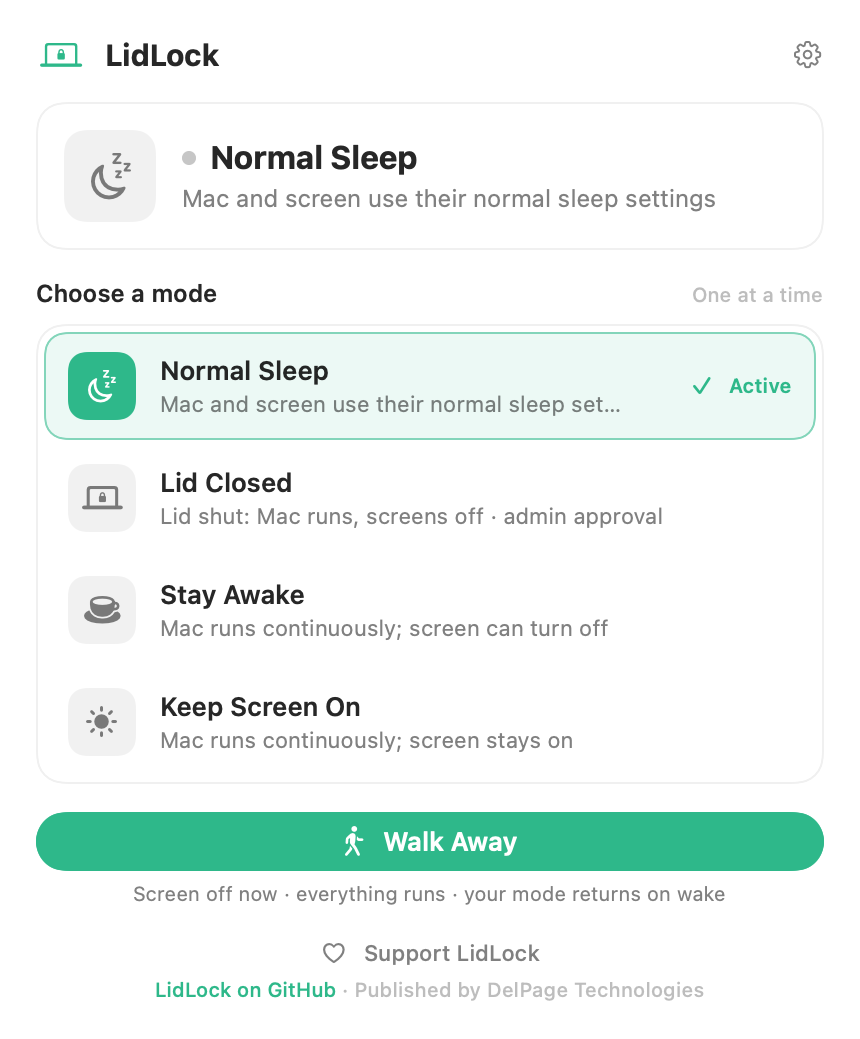
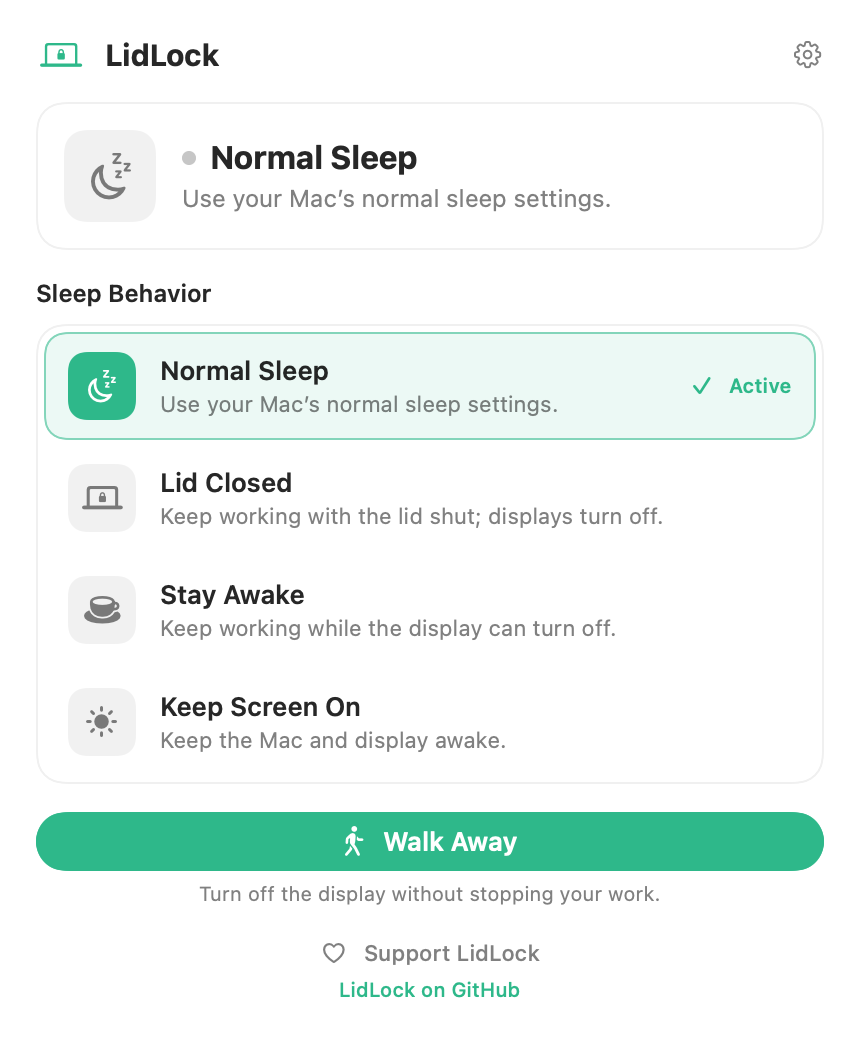
Rewrite customer-facing copy

diff --git a/GETTING_STARTED.md b/GETTING_STARTED.md
@@ -1,8 +1,8 @@
 # Getting Started With LidLock
 
-LidLock is a macOS menu bar utility that gives you clear control over when your
-Mac and its display sleep. It is free to use, requires no account, and does not
-collect personal information.
+LidLock is a macOS menu bar utility for controlling when your Mac and display
+sleep. It is free to use, requires no account, and does not collect personal
+information.
 
 The current public download is version 1.1.3. The guided setup and four mode
 interface described below are being tested for the next signed update.
@@ -14,35 +14,28 @@ interface described below are being tested for the next signed update.
 3. Open LidLock from Applications.
 4. macOS verifies that the app is signed and notarized by DelPage Technologies.
 
-Moving LidLock to Applications is required only for the optional password free
+Moving LidLock to Applications is required only for the optional password-free
 helper. The rest of the app can run without that helper.
 
 ## First Launch
 
-The next LidLock update opens with a three step guide:
-
-1. **Choose a mode.** Learn what happens to the Mac and display in each mode.
-2. **Walk Away and menu bar.** Learn how to hide the screen immediately and how
-   LidLock stays available after its window closes.
-3. **Permissions.** See which features need no special access, why Lid Closed
-   needs administrator approval, and which options are completely optional.
+On first launch, LidLock shows what each sleep option does, how Walk Away works,
+where to find LidLock after closing its window, and why Lid Closed needs an
+administrator password.
 
 You can reopen this guide anytime from **Settings**, then **Getting Started**.
 
-## The Four Modes
-
-Only one mode can be active at a time.
+## Sleep Options
 
 | Mode | What happens |
 |---|---|
-| **Normal Sleep** | The Mac and display use their usual sleep settings. |
-| **Lid Closed** | The Mac keeps running with the lid shut, and screens turn off. |
-| **Stay Awake** | Work keeps running, but the display may turn off. |
-| **Keep Screen On** | Both the Mac and display remain awake. |
+| **Normal Sleep** | Uses your Mac's normal sleep settings. |
+| **Lid Closed** | Keeps your Mac working with the lid shut while displays turn off. |
+| **Stay Awake** | Keeps your work running while the display can turn off. |
+| **Keep Screen On** | Keeps the Mac and display awake. |
 
-**Walk Away** is a separate privacy action. It turns the screen off immediately
-without stopping your work. When the display wakes, LidLock restores the mode
-that was active before Walk Away.
+**Walk Away** turns the display off immediately without stopping your work. Your
+previous sleep setting remains selected when the display wakes.
 
 Closing the LidLock window does not quit the app. LidLock stays available in the
 macOS menu bar until you choose **Quit LidLock**.
@@ -51,37 +44,36 @@ macOS menu bar until you choose **Quit LidLock**.
 
 | Feature | What macOS may request | Why |
 |---|---|---|
-| Normal Sleep, Stay Awake, Keep Screen On, and Walk Away | Nothing | These use standard local power controls that do not require special access. |
-| Lid Closed | Administrator approval | This mode changes a system wide lid sleep setting so the Mac can continue running with the lid shut. macOS protects that setting. |
-| Password Free Lid Control | Optional helper approval | The signed helper avoids repeated password prompts. It can change only the lid sleep setting and accepts requests only from the signed LidLock app. |
-| Launch at Login | Optional approval under Login Items | macOS lets you decide which apps may open when you sign in. |
+| Normal Sleep, Stay Awake, Keep Screen On, and Walk Away | Nothing | They work as soon as LidLock opens. |
+| Lid Closed | Administrator password | macOS protects changes to how the Mac sleeps with its lid shut. |
+| Password-free lid control | Optional helper approval | The signed helper can change only the lid sleep setting. |
+| Open at login | Optional approval under Login Items | macOS lets you decide which apps open when you sign in. |
 
 LidLock does not request access to your files, screen contents, camera,
 microphone, location, contacts, or Accessibility controls.
 
 ### Why Lid Closed Needs Administrator Approval
 
-Lid Closed changes a setting that applies to the entire Mac, not only to the
-LidLock window. macOS therefore requires administrator approval when that
-setting is turned on or returned to normal.
+Lid Closed changes how the entire Mac sleeps when its lid is shut. macOS asks
+for an administrator password when that setting changes.
 
-Before the macOS approval prompt appears, LidLock explains what will change and
-reminds you that the Mac may continue using power while the lid is shut. This
-approval does not give LidLock access to personal information or other apps.
+Before the password prompt appears, LidLock explains what will change and that
+the Mac will continue using power while the lid is shut. This does not give
+LidLock access to your files, screen, or other apps.
 
-### Optional Password Free Helper
+### Optional Password-free Helper
 
 Without the helper, macOS may ask for an administrator password when Lid Closed
 is turned on or off. If you prefer fewer prompts, open **Settings** and enable
-**Password Free Lid Control**.
+**Use password-free lid control**.
 
 The helper is optional. It is signed, limited to the lid sleep setting, and can
 be removed by turning the same setting off. All other LidLock features work
 without it.
 
-### Optional Launch at Login
+### Optional Open at Login
 
-Launch at Login is off until you enable it. macOS may ask you to approve LidLock
+Open at login is off until you enable it. macOS may ask you to approve LidLock
 under **System Settings**, **General**, **Login Items**. This approval only lets
 LidLock open after you sign in.
 

diff --git a/README.md b/README.md
@@ -7,9 +7,8 @@ Keep your MacBook running with the lid closed.
 [![Download](https://img.shields.io/badge/Download-LidLock.dmg-2563eb?labelColor=0f172a)](https://github.com/DelPage/lidlock/releases/latest/download/LidLock.dmg)
 [![Support LidLock](https://img.shields.io/badge/Support-LidLock-2FBC91?labelColor=0f172a)](SUPPORT.md)
 
-LidLock is a signed and notarized macOS app for local servers, downloads,
-automations, and long builds. It gives you clear controls for the Mac power
-settings people usually manage with Terminal commands.
+LidLock keeps local servers, downloads, automations, and long builds running
+when your Mac would normally sleep. No Terminal commands required.
 
 LidLock is free software published by DelPage Technologies.
 
@@ -35,33 +34,30 @@ LidLock requires **macOS 13 Ventura or newer**. The distributed app is signed wi
 
 ## Getting Started
 
-The next signed update guides every new user through the four modes, Walk Away,
-menu bar behavior, safety, and permissions before they begin. The guide can be
-reopened anytime from **Settings**, then **Getting Started**.
+The next signed update includes a short first-run guide to the sleep controls,
+Walk Away, the menu bar, and administrator approval. You can reopen it anytime
+from **Settings**, then **Getting Started**.
 
 [Read the complete installation and permissions guide](GETTING_STARTED.md).
 
 ## What It Does
 
-- **Normal Sleep** returns the Mac and display to their usual sleep settings.
-- **Lid Closed** keeps your MacBook running with the lid shut while screens turn off.
-- **Stay Awake** keeps work running while allowing the display to turn off.
-- **Keep Screen On** keeps both the Mac and its display awake.
-- **Walk Away** turns the display off immediately, keeps work running, and restores the selected mode when the display wakes.
-- **Password-free lid control** can install a signed helper from Settings so approved users do not have to enter their password every time.
+- **Normal Sleep** uses your Mac's normal sleep settings.
+- **Lid Closed** keeps your MacBook working with the lid shut while displays turn off.
+- **Stay Awake** keeps your work running while the display can turn off.
+- **Keep Screen On** keeps the Mac and display awake.
+- **Walk Away** turns the display off immediately without stopping your work.
 - Closing the window keeps LidLock available in the menu bar; reopen it from
   **Open LidLock** or quit it explicitly from the same menu.
-
-LidLock always shows the real current system state, so you can see what is keeping the Mac awake and turn it off quickly.
 
 ## Permissions at a Glance
 
 | Feature | Approval | Why |
 |---|---|---|
-| Normal Sleep, Stay Awake, Keep Screen On, and Walk Away | None | These features do not need special access. |
-| Lid Closed | Administrator approval | macOS protects the system wide lid sleep setting that this mode changes. |
-| Password Free Lid Control | Optional helper approval | The signed helper avoids repeated password prompts and can change only the lid sleep setting. |
-| Launch at Login | Optional Login Items approval | macOS lets you choose which apps may open when you sign in. |
+| Normal Sleep, Stay Awake, Keep Screen On, and Walk Away | None | They work as soon as LidLock opens. |
+| Lid Closed | Administrator password | macOS protects changes to how the Mac sleeps with its lid shut. |
+| Password-free lid control | Optional helper approval | A signed helper can change only the lid sleep setting. |
+| Open at login | Optional Login Items approval | macOS lets you choose which apps open when you sign in. |
 
 LidLock does not request access to files, screen contents, camera, microphone,
 location, contacts, or Accessibility controls. Read
@@ -70,10 +66,10 @@ explanation.
 
 ## Next Update Preview
 
-These screenshots show the redesigned mode interface now in testing. The
-download above remains version 1.1.3 until the next signed release is published.
+These screenshots are from the next signed update. The download above remains
+version 1.1.3 until that update is published.
 
-| Four clear modes | First-run guide |
+| Sleep controls | First-run guide |
 |---|---|
 | ![LidLock four-mode screen](screenshots/lidlock-main.png) | ![LidLock first-run guide](screenshots/lidlock-onboarding.png) |
 
@@ -90,9 +86,9 @@ Read the [LidLock privacy policy](PRIVACY.md).
 
 ## Support LidLock
 
-Donations are optional, and LidLock works the same for everyone. The dedicated
-[Support LidLock page](SUPPORT.md) opens directly to $5, $10, $25, $100, and
-Custom Amount choices.
+LidLock is free and works the same for everyone. The
+[Support LidLock page](SUPPORT.md) has $5, $10, $25, $100, and custom donation
+options.
 
 ## Bug Reports
 

diff --git a/CHANGELOG.md b/CHANGELOG.md
@@ -4,15 +4,10 @@ All notable public releases of LidLock are tracked here.
 
 ## 1.1.3 - 2026-07-15
 
-Menu-bar workflow release.
-
 - Closing the main window now leaves LidLock running in the macOS menu bar.
-- Added a state-aware menu-bar tooltip that shows the current protection status
-  and points users to the menu controls.
-- Kept **Open LidLock** and **Quit LidLock** in the menu so hiding the window and
-  exiting the app are separate, predictable actions.
-- Consolidated public distribution around this GitHub repository and its signed
-  DMG releases.
+- Hovering over the menu-bar icon shows the current sleep setting.
+- **Open LidLock** brings the window back.
+- **Quit LidLock** exits the app and runs its normal sleep cleanup.
 
 Artifact:
 
@@ -40,8 +35,8 @@ Password-free lid control release.
 This build was superseded by 1.1.1 after a helper validation bug was found. The
 public release asset was removed; use 1.1.1 or newer.
 
-- Added an optional signed privileged helper in Settings so Survive Lid Close
-  can turn on and off without asking for the admin password every time.
+- Added an optional signed helper in Settings so lid-close behavior can change
+  without asking for the administrator password every time.
 - Added a warning dialog before installing the helper.
 - Kept the normal macOS admin prompt as the fallback when the helper is off.
 - Added release checks that fail if the helper or launchd plist is missing from
@@ -56,13 +51,13 @@ Artifact:
 
 Maintenance release.
 
-- Fixed a restore-on-battery policy path that could ask for admin approval a
-  second time immediately after enabling Survive Lid Close while on battery.
-- Kept explicit Survive Lid Close enables from being auto-undone during the
-  same battery session.
+- Fixed a battery safety path that could ask for administrator approval twice
+  after enabling lid-close behavior while unplugged.
+- Kept an intentional lid-close choice from being reversed during the same
+  battery session.
 - Improved menu/window state consistency while privileged operations are in
   progress.
-- Fixed Launch at Login cleanup when macOS leaves the login item in a pending
+- Fixed Open at login cleanup when macOS leaves the login item in a pending
   approval state.
 
 Artifact:
@@ -76,7 +71,8 @@ Initial public release.
 
 - Added signed and notarized Developer ID distribution.
 - Added direct `.dmg` download for macOS 13+.
-- Added Survive Lid Close, Keep System Awake, Keep Display Awake, Walk Away, Turn Off Display, and Restore Normal Sleep controls.
+- Added controls for working with the lid shut, keeping the Mac or display
+  awake, turning off the display immediately, and restoring normal sleep.
 - Added local-only privacy posture with no accounts, analytics, telemetry, or automatic network access during normal operation.
 - Added startup and quit safeguards for restoring normal sleep state after crashes or canceled restores.
 

diff --git a/release-notes/v1.0.1.md b/release-notes/v1.0.1.md
@@ -14,13 +14,13 @@ d4e2e1b97ffcf1315f8915a9519ea328dffefde65bd02f3ccd9726aa0ed44c47  LidLock.dmg
 
 ## What Changed
 
-- Fixed a restore-on-battery policy path that could ask for admin approval a
-  second time immediately after enabling Survive Lid Close while on battery.
-- Kept explicit Survive Lid Close enables from being auto-undone during the
-  same battery session.
+- Fixed a battery safety path that could ask for administrator approval twice
+  after enabling lid-close behavior while unplugged.
+- Kept an intentional lid-close choice from being reversed during the same
+  battery session.
 - Improved menu/window state consistency while privileged operations are in
   progress.
-- Fixed Launch at Login cleanup when macOS leaves the login item in a pending
+- Fixed Open at login cleanup when macOS leaves the login item in a pending
   approval state.
 
 ## Requirements

diff --git a/PRIVACY.md b/PRIVACY.md
@@ -12,7 +12,7 @@ LidLock is designed to be private by default. **It collects nothing.**
 
 ## What Stays On Your Mac
 
-- Preferences such as Launch at Login, safety toggles, and menu-bar visibility are stored locally in macOS `UserDefaults`.
+- Preferences such as Open at login, safety settings, and menu-bar visibility are stored locally on your Mac.
 - Diagnostic logs are written only to the local macOS unified logging system for on-device troubleshooting.
 
 ## System Changes LidLock Makes
@@ -20,14 +20,14 @@ LidLock is designed to be private by default. **It collects nothing.**
 LidLock changes local macOS power settings. Normal Sleep, Stay Awake, Keep
 Screen On, and Walk Away do not require special access.
 
-Lid Closed requires administrator approval because it changes a system wide lid
+Lid Closed requires administrator approval because it changes a system-wide lid
 sleep setting. Before macOS requests approval, LidLock explains what will change
 and why. This approval does not give LidLock access to personal information or
 other apps.
 
-The optional Password Free Lid Control helper can change only the lid sleep
+The optional password-free lid control helper can change only the lid sleep
 setting and accepts requests only from the signed LidLock app. It can be removed
-from LidLock Settings. Launch at Login is also optional and may require approval
+from LidLock Settings. Open at login is also optional and may require approval
 under macOS Login Items.
 
 LidLock does not request access to files, screen contents, camera, microphone,

diff --git a/CONTRIBUTING.md b/CONTRIBUTING.md
@@ -5,13 +5,13 @@ compiled releases, customer documentation, screenshots, checksums, policies,
 and issue templates. The application source is maintained privately by DelPage
 Technologies and is not part of this repository.
 
-## Welcome here
+## How to help
 
 - Bug reports and compatibility notes through GitHub Issues.
 - Documentation corrections and clearer customer instructions.
 - Accessibility, usability, and Mac-model compatibility feedback.
 
-## Not accepted here
+## What stays private
 
 - Application or privileged-helper source code.
 - Signing certificates, provisioning files, credentials, or private keys.

diff --git a/SUPPORT.md b/SUPPORT.md
@@ -5,7 +5,7 @@
 <h1 align="center">Support LidLock</h1>
 
 <p align="center">
-  LidLock is free for everyone. If it helps you, a one time donation supports
+  LidLock is free for everyone. If it helps you, a one-time donation supports
   continued macOS compatibility, signing, testing, and maintenance.
 </p>
 
@@ -28,7 +28,7 @@
 
 ---
 
-## What Your Support Covers
+## What Donations Support
 
 - Apple Developer signing and notarization.
 - Testing against new macOS releases.

diff --git a/release-notes/v1.1.0.md b/release-notes/v1.1.0.md
@@ -17,8 +17,8 @@ SHA-256:
 
 ## What Changed
 
-- Added an optional signed privileged helper in Settings so Survive Lid Close
-  can turn on and off without asking for the admin password every time.
+- Added an optional signed helper in Settings so lid-close behavior can change
+  without asking for the administrator password every time.
 - Added a warning dialog before installing the helper.
 - Kept the normal macOS admin prompt as the fallback when the helper is off.
 - Added release checks that fail if the helper or launchd plist is missing from

diff --git a/SECURITY.md b/SECURITY.md
@@ -10,7 +10,7 @@ Include:
 - LidLock version.
 - macOS version.
 - Mac model and processor family.
-- A concise reproduction path.
+- Steps that reproduce the issue.
 - Whether the issue involves `pmset`, authorization prompts, app signing, or Gatekeeper.
 
 The public GitHub repository is for distribution and issue tracking. LidLock source code is not published here.

diff --git a/release-notes/v1.1.3.md b/release-notes/v1.1.3.md
@@ -18,7 +18,7 @@ fe735f2a9cebdbd5807163d4099c75df6141d70ca36aa91265562caf1d78e8af  LidLock.dmg
 - Closing the main window leaves LidLock running in the menu bar.
 - **Open LidLock** brings the window back from the menu bar.
 - **Quit LidLock** remains the explicit way to exit and run quit-time cleanup.
-- Hovering over the menu-bar icon shows the current sleep-protection status.
+- Hovering over the menu-bar icon shows the current sleep setting.
 
 ## Requirements
 